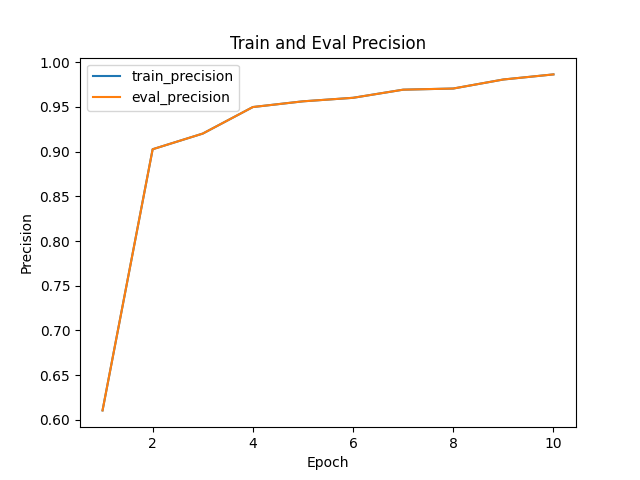
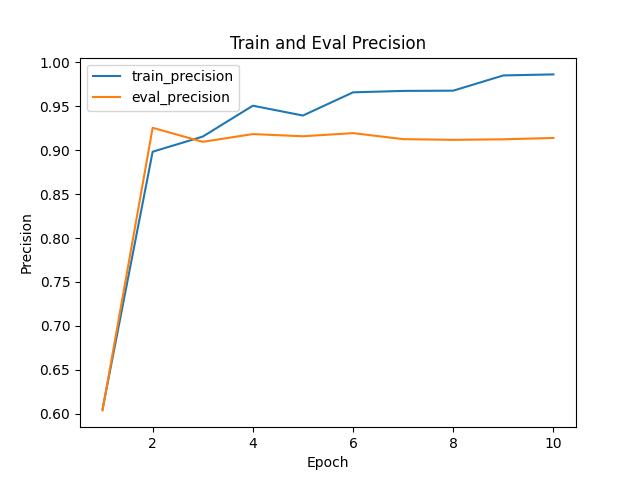
updates trainer for evaluation on test.csv

diff --git a/trainer/train_bert.py b/trainer/train_bert.py
@@ -77,7 +77,8 @@ def get_file_path():
 
 
 if __name__ == '__main__':
-    dataset = NERDataLoader(get_file_path()).get_ner_dataset()
+    train_dataset = NERDataLoader('../data/train.csv').get_ner_dataset()
+    test_dataset = NERDataLoader('../data/test.csv').get_ner_dataset()
 
     model = DistilBertForTokenClassification.from_pretrained('distilbert-base-uncased', num_labels=len(labels))
     model.config.id2label = id2label
@@ -86,8 +87,8 @@ if __name__ == '__main__':
     trainer = Trainer(
         model=model,
         args=training_args,
-        train_dataset=dataset,
-        eval_dataset=dataset,
+        train_dataset=train_dataset,
+        eval_dataset=test_dataset,
         compute_metrics=compute_metrics
     )
 
